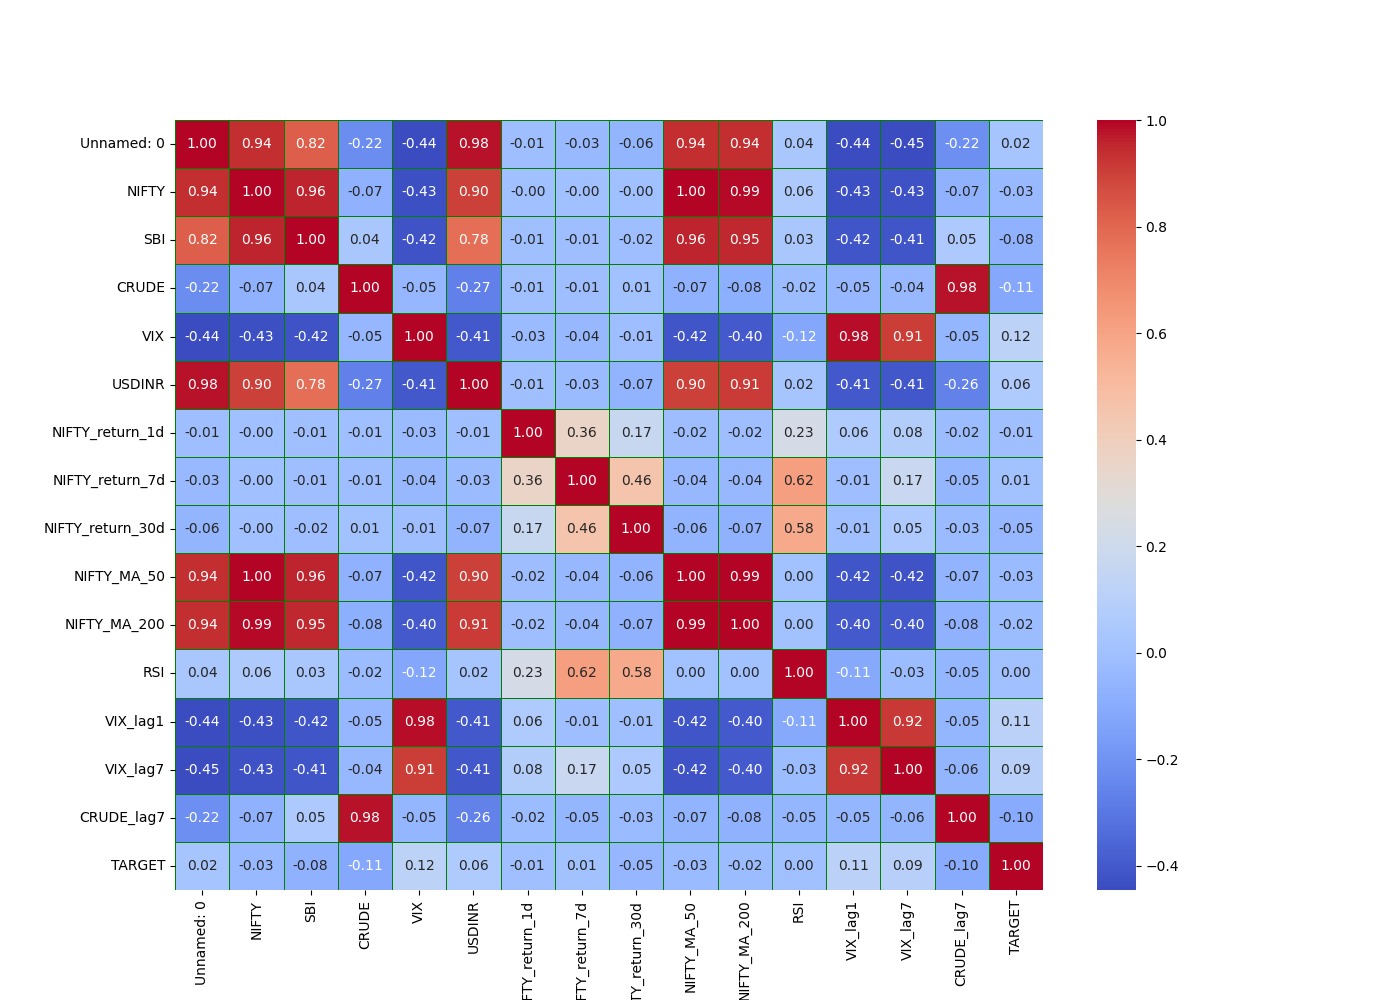
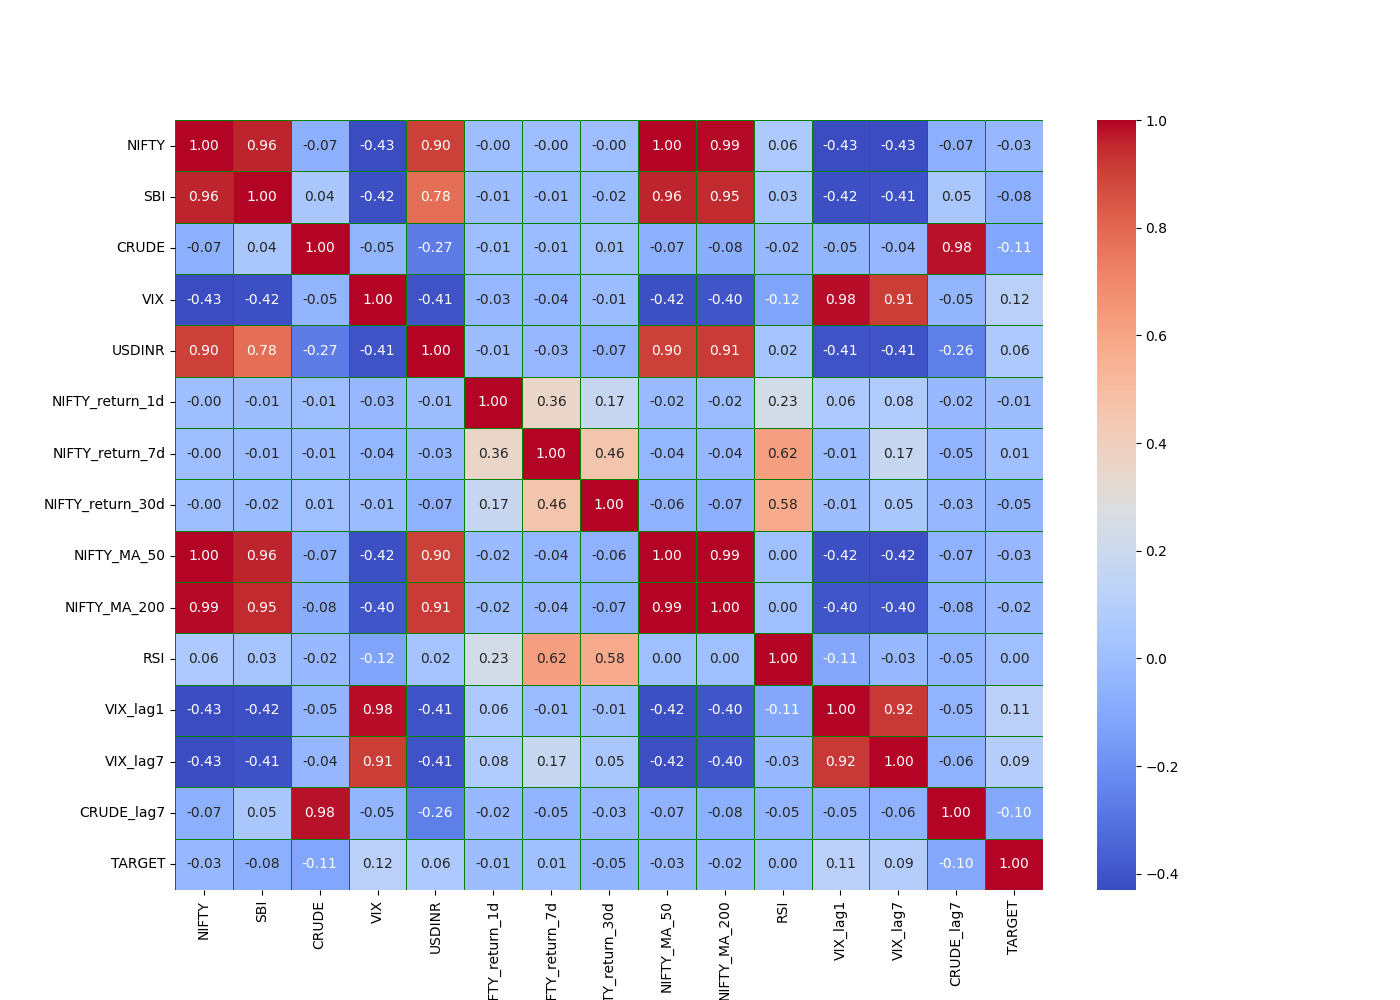
Fix hardcoded paths with BASE_DIR; add Phase 6 backtesting for Rate Hike 2022 and Bull Run 2023

Changed region(s): [[0.0307, 0.124, 0.7679, 1.0], [0.1229, 0.899, 0.1536, 0.961]]

diff --git a/notebooks/05_Backtesting.py b/notebooks/05_Backtesting.py
@@ -1,0 +1,38 @@
+import pandas as pd 
+import joblib
+import os
+from sklearn.metrics import confusion_matrix , classification_report ,accuracy_score
+
+BASE_DIR = os.path.dirname(os.path.abspath(__file__))
+df = pd.read_csv(os.path.join(BASE_DIR, "..", "data", "master_data_features.csv"))
+model = joblib.load(os.path.join(BASE_DIR, "..", "models", "rf_model.pkl"))
+
+
+cols_to_drop = ["Unnamed: 0" , "Date" , "NIFTY" , "SBI" , "CRUDE" , "VIX" , "USDINR"]
+
+
+
+#--------------Rate Hike Crash------------------
+rate_df = df[(df["Date"] >= "2022-01-01") & (df["Date"] <= "2022-12-31")]
+rate_df = rate_df.drop(columns=cols_to_drop , errors="ignore")
+X_rate = rate_df.drop(columns=["TARGET"])
+y_rate = rate_df["TARGET"]
+rate_pred = model.predict(X_rate)
+print("Rate Hike Crash 2022")
+print("Accuracy :" , accuracy_score(y_rate , rate_pred))
+print(classification_report(y_rate , rate_pred))
+print(confusion_matrix(y_rate , rate_pred))
+
+
+#------------------Bull Run 2023-----------------------
+bull_df = df[(df["Date"] >= "2023-01-01") & (df["Date"] <= "2023-12-31")].copy()
+bull_df = bull_df.drop(columns=cols_to_drop , errors= "ignore")
+X_bull_run = bull_df.drop(columns=["TARGET"])
+y_bull_run = bull_df["TARGET"]
+bull_pred = model.predict(X_bull_run)
+print("Bull Run 2023")
+print("Accuracy : " , accuracy_score(y_bull_run , bull_pred))
+print(classification_report(y_bull_run , bull_pred))
+print(confusion_matrix(y_bull_run , bull_pred))
+
+

diff --git a/notebooks/03_EDA.py b/notebooks/03_EDA.py
@@ -1,27 +1,28 @@
 import pandas as pd 
 import matplotlib.pyplot as plt
 import seaborn as sns
+import os
 
-df = pd.read_csv(r"C:\Scikit Learn\Stock Market Predictor System\data\master_data_features.csv")
-
+BASE_DIR = os.path.dirname(os.path.abspath(__file__))
+df = pd.read_csv(os.path.join(BASE_DIR, "..", "data", "master_data_features.csv"))
+df = df.drop(columns=["Unnamed: 0"], errors="ignore")
 
 #---------------------------Heatmap----------------------- 
-# plt.figure(figsize=(14 , 10))
-# sns.heatmap(df.drop(columns = ["Date"]).corr() , annot=True , cmap = "coolwarm" , fmt = ".2f" , linewidths= 0.5 , linecolor="green")
-# df = df.drop(columns=["Unnamed: 0"], errors="ignore")
-# plt.savefig("Correlation_heatmap.png")
-# plt.show()
+plt.figure(figsize=(14 , 10))
+sns.heatmap(df.drop(columns = ["Date"]).corr() , annot=True , cmap = "coolwarm" , fmt = ".2f" , linewidths= 0.5 , linecolor="green")
+plt.savefig(os.path.join(BASE_DIR, "..", "Correlation_heatmap.png"))
+plt.show()
 
 
 #-------------------RSI Distribution------------------
-# plt.figure(figsize=(10, 5))
-# sns.histplot(data=df, x="RSI", bins=50, kde=True)
-# plt.axvline(x=30, color="red", linestyle="--", label="Oversold (30)")
-# plt.axvline(x=70, color="green", linestyle="--", label="Overbought (70)")
-# plt.legend()
-# plt.title("RSI Distribution")
-# plt.savefig("rsi_distribution.png")
-# plt.show()
+plt.figure(figsize=(10, 5))
+sns.histplot(data=df, x="RSI", bins=50, kde=True)
+plt.axvline(x=30, color="red", linestyle="--", label="Oversold (30)")
+plt.axvline(x=70, color="green", linestyle="--", label="Overbought (70)")
+plt.legend()
+plt.title("RSI Distribution")
+plt.savefig(os.path.join(BASE_DIR, "..", "rsi_distribution.png"))
+plt.show()
 
 
 
@@ -29,5 +30,5 @@ df = pd.read_csv(r"C:\Scikit Learn\Stock Market Predictor System\data\master_dat
 plt.figure(figsize=(10 , 6))
 sns.scatterplot(data = df , x = "VIX" , y = "NIFTY_return_1d" , hue = "TARGET"  )
 plt.title("VIX vs NIFTY Daily Return")
-plt.savefig("vix_vs_return.png")
+plt.savefig(os.path.join(BASE_DIR, "..", "vix_vs_return.png"))
 plt.show()

diff --git a/notebooks/04_Modelling.py b/notebooks/04_Modelling.py
@@ -2,19 +2,15 @@ import pandas as pd
 import matplotlib.pyplot as plt
 import seaborn as sns
 import joblib
+import os
 from sklearn.ensemble import RandomForestClassifier
-from sklearn.metrics import recall_score , precision_score , accuracy_score , classification_report , confusion_matrix , f1_score
+from sklearn.metrics import accuracy_score , classification_report , confusion_matrix 
 from xgboost import XGBClassifier
 
 
-df = pd.read_csv(r"C:\Scikit Learn\Stock Market Predictor System\data\master_data_features.csv")
+BASE_DIR = os.path.dirname(os.path.abspath(__file__))
+df = pd.read_csv(os.path.join(BASE_DIR, "..", "data", "master_data_features.csv"))
 df = df.drop(columns=[ "Unnamed: 0" ], errors="ignore")
-X = df.drop(columns=["TARGET"])
-y = df["TARGET"]
-
-print("X shape :" , X.shape)
-print("Y shape :" , y.shape)
-print("Columns in X : " , (X.columns))
 
 
 #Split first using date 
@@ -25,15 +21,9 @@ test_df = df [df["Date"] >= "2022-01-01"]
 train_df = train_df.drop(columns=["Date"])
 test_df = test_df.drop(columns=["Date"])
 
-#Create x and y 
-X_train = train_df.drop(columns=["TARGET"])
-X_test = test_df.drop(columns=["TARGET"])
-
 y_train = train_df["TARGET"]
 y_test = test_df["TARGET"]
 
-print("X_train shape:", X_train.shape)
-print("X_test shape:", X_test.shape)
 print("y_train:", y_train.value_counts())
 print("y_test:", y_test.value_counts())
 
@@ -68,8 +58,6 @@ print(len(importances))    # should be 9
 print("Accuracy:", accuracy_score(y_test, y_pred))
 print("\nConfusion Matrix:\n", confusion_matrix(y_test, y_pred))
 print("\nClassification Report:\n", classification_report(y_test, y_pred))
-feature_names = X_train.columns
-importances = model_rf.feature_importances_
 
 feat_df = pd.DataFrame({
     "Feature": feature_names,
@@ -79,7 +67,7 @@ feat_df = pd.DataFrame({
 plt.figure(figsize=(10, 6))
 plt.barh(feat_df["Feature"], feat_df["Importance"])
 plt.title("Feature Importance — Random Forest")
-plt.savefig("feature_importance.png")
+plt.savefig(os.path.join(BASE_DIR, "..", "feature_importance.png"))
 plt.show()
 
 xgb_model = XGBClassifier(
@@ -95,6 +83,6 @@ print("Accuracy:", accuracy_score(y_test, y_pred_xgb))
 print("\nClassification Report:\n", 
       classification_report(y_test, y_pred_xgb))
 
+joblib.dump(model_rf, os.path.join(BASE_DIR, "..", "models", "rf_model.pkl"))
 
-joblib.dump(model_rf, r"C:\Scikit Learn\Stock Market Predictor System\models\rf_model.pkl")
 print("Model saved successfully.")